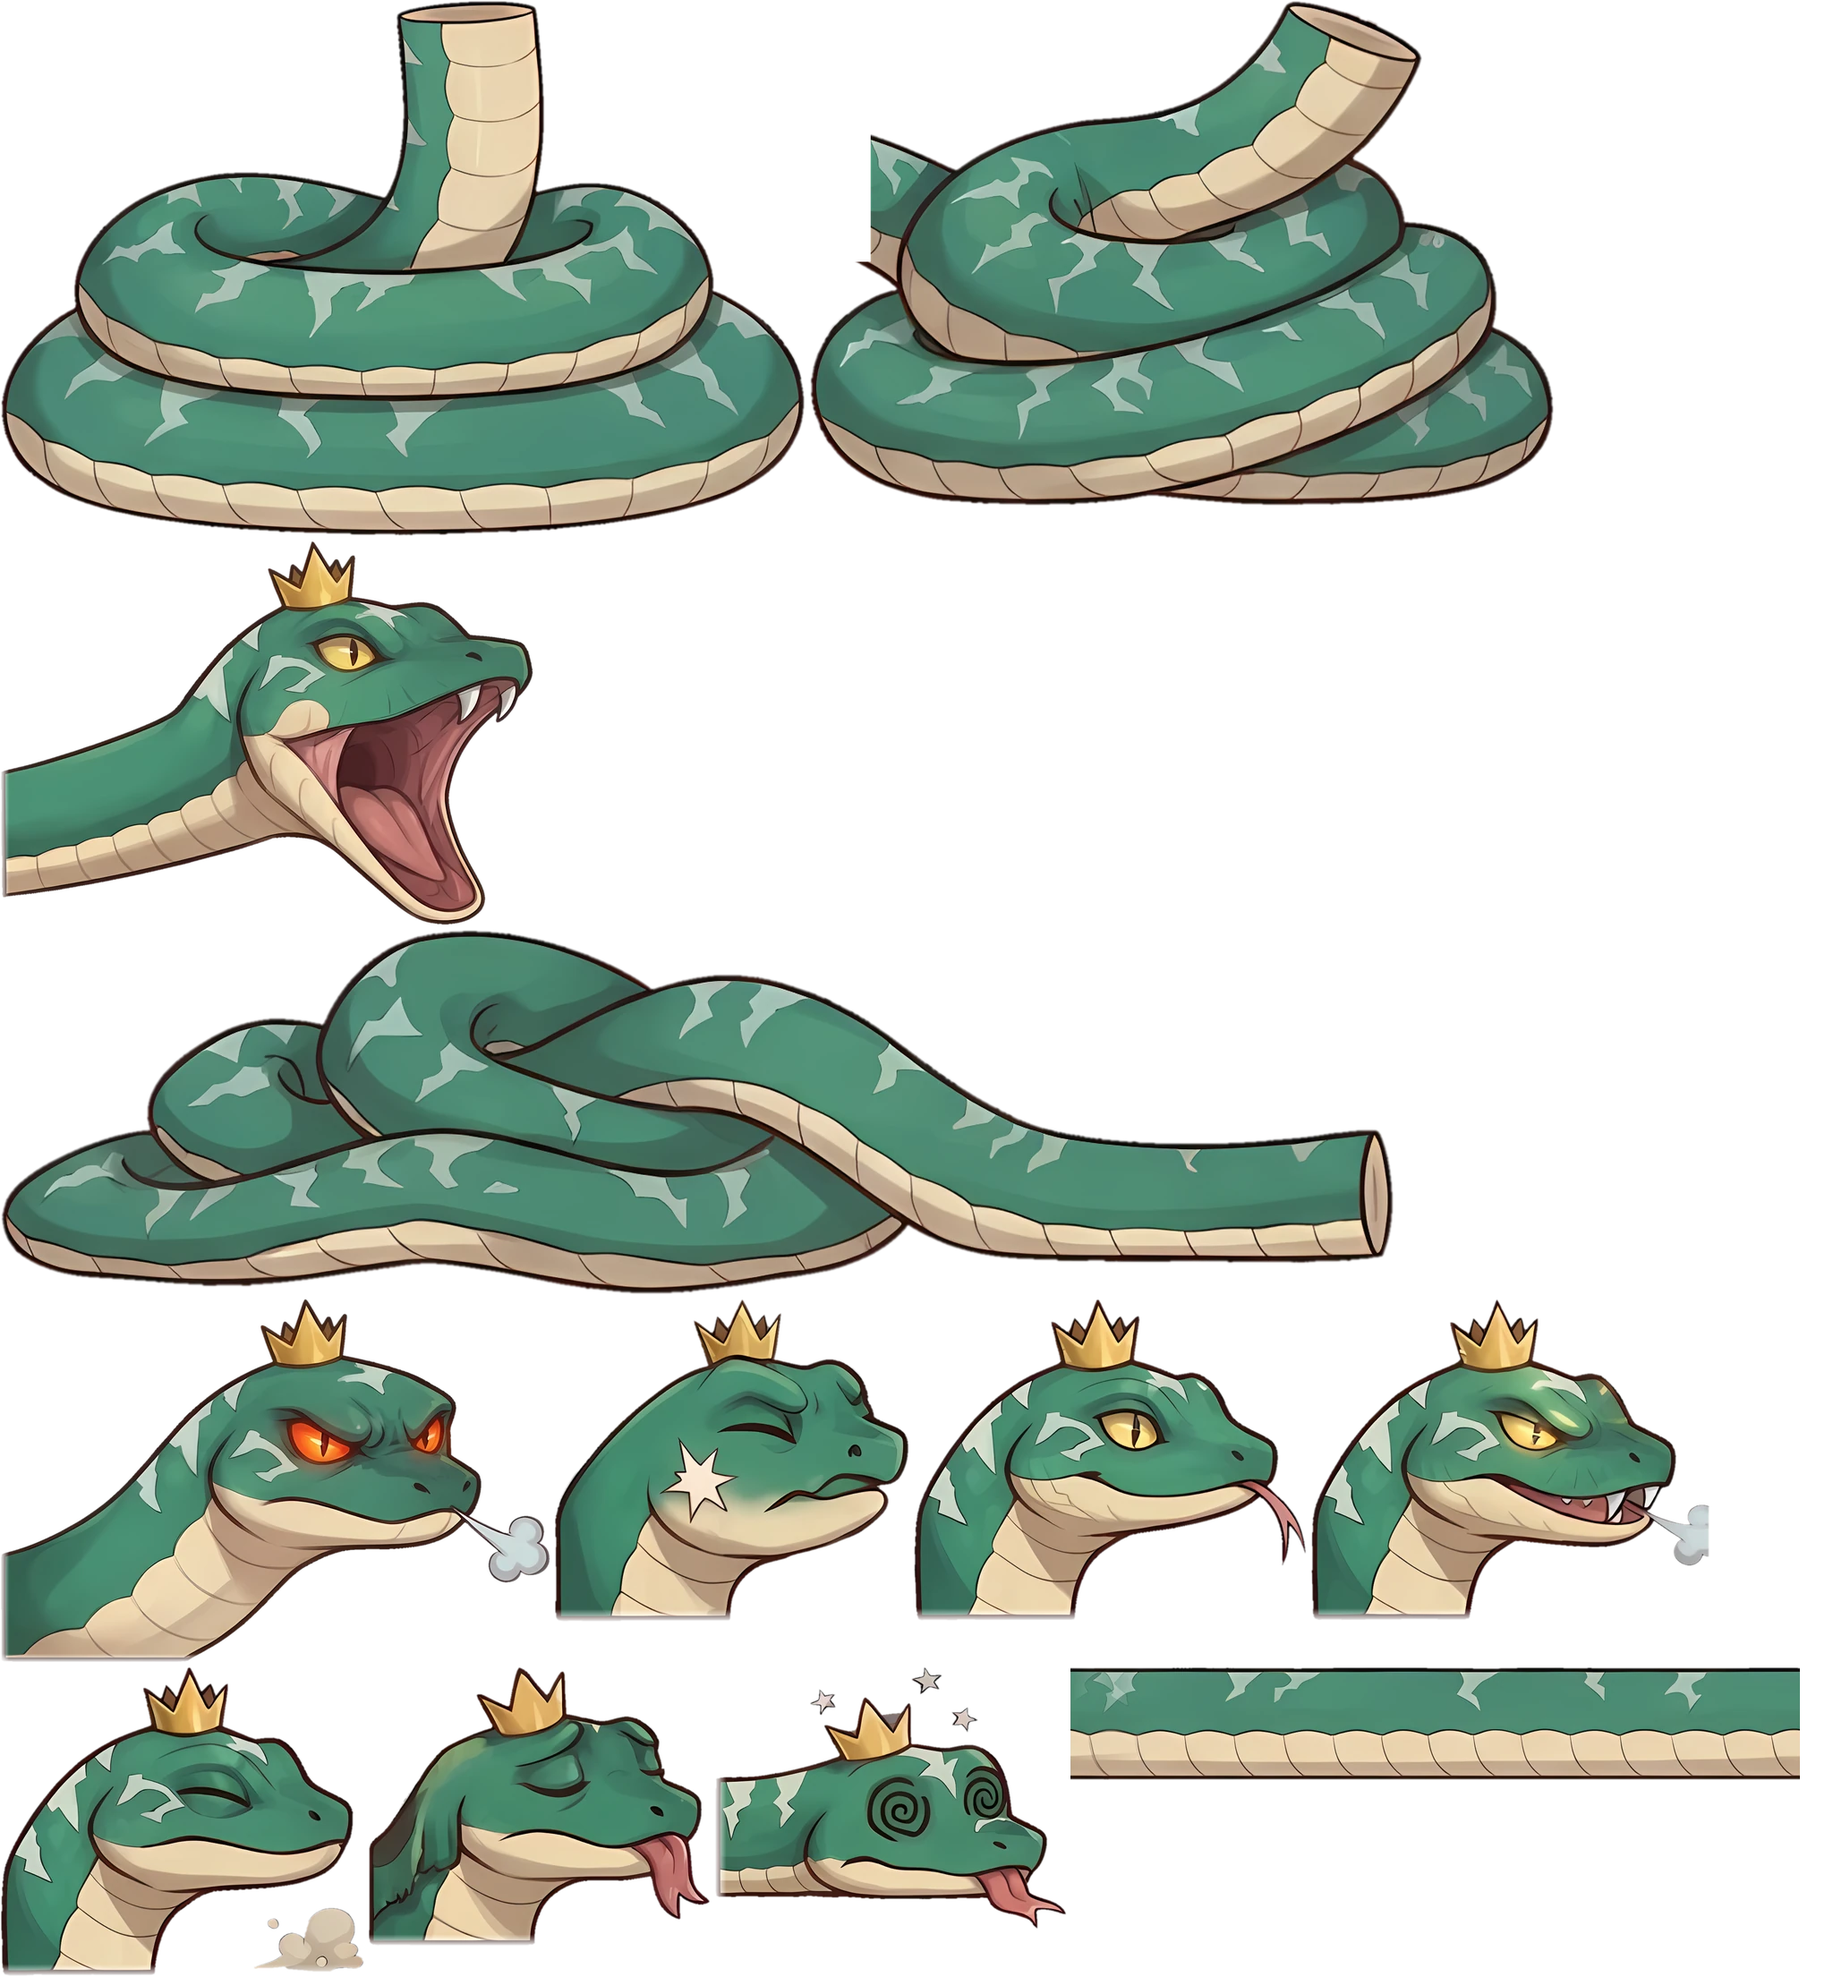
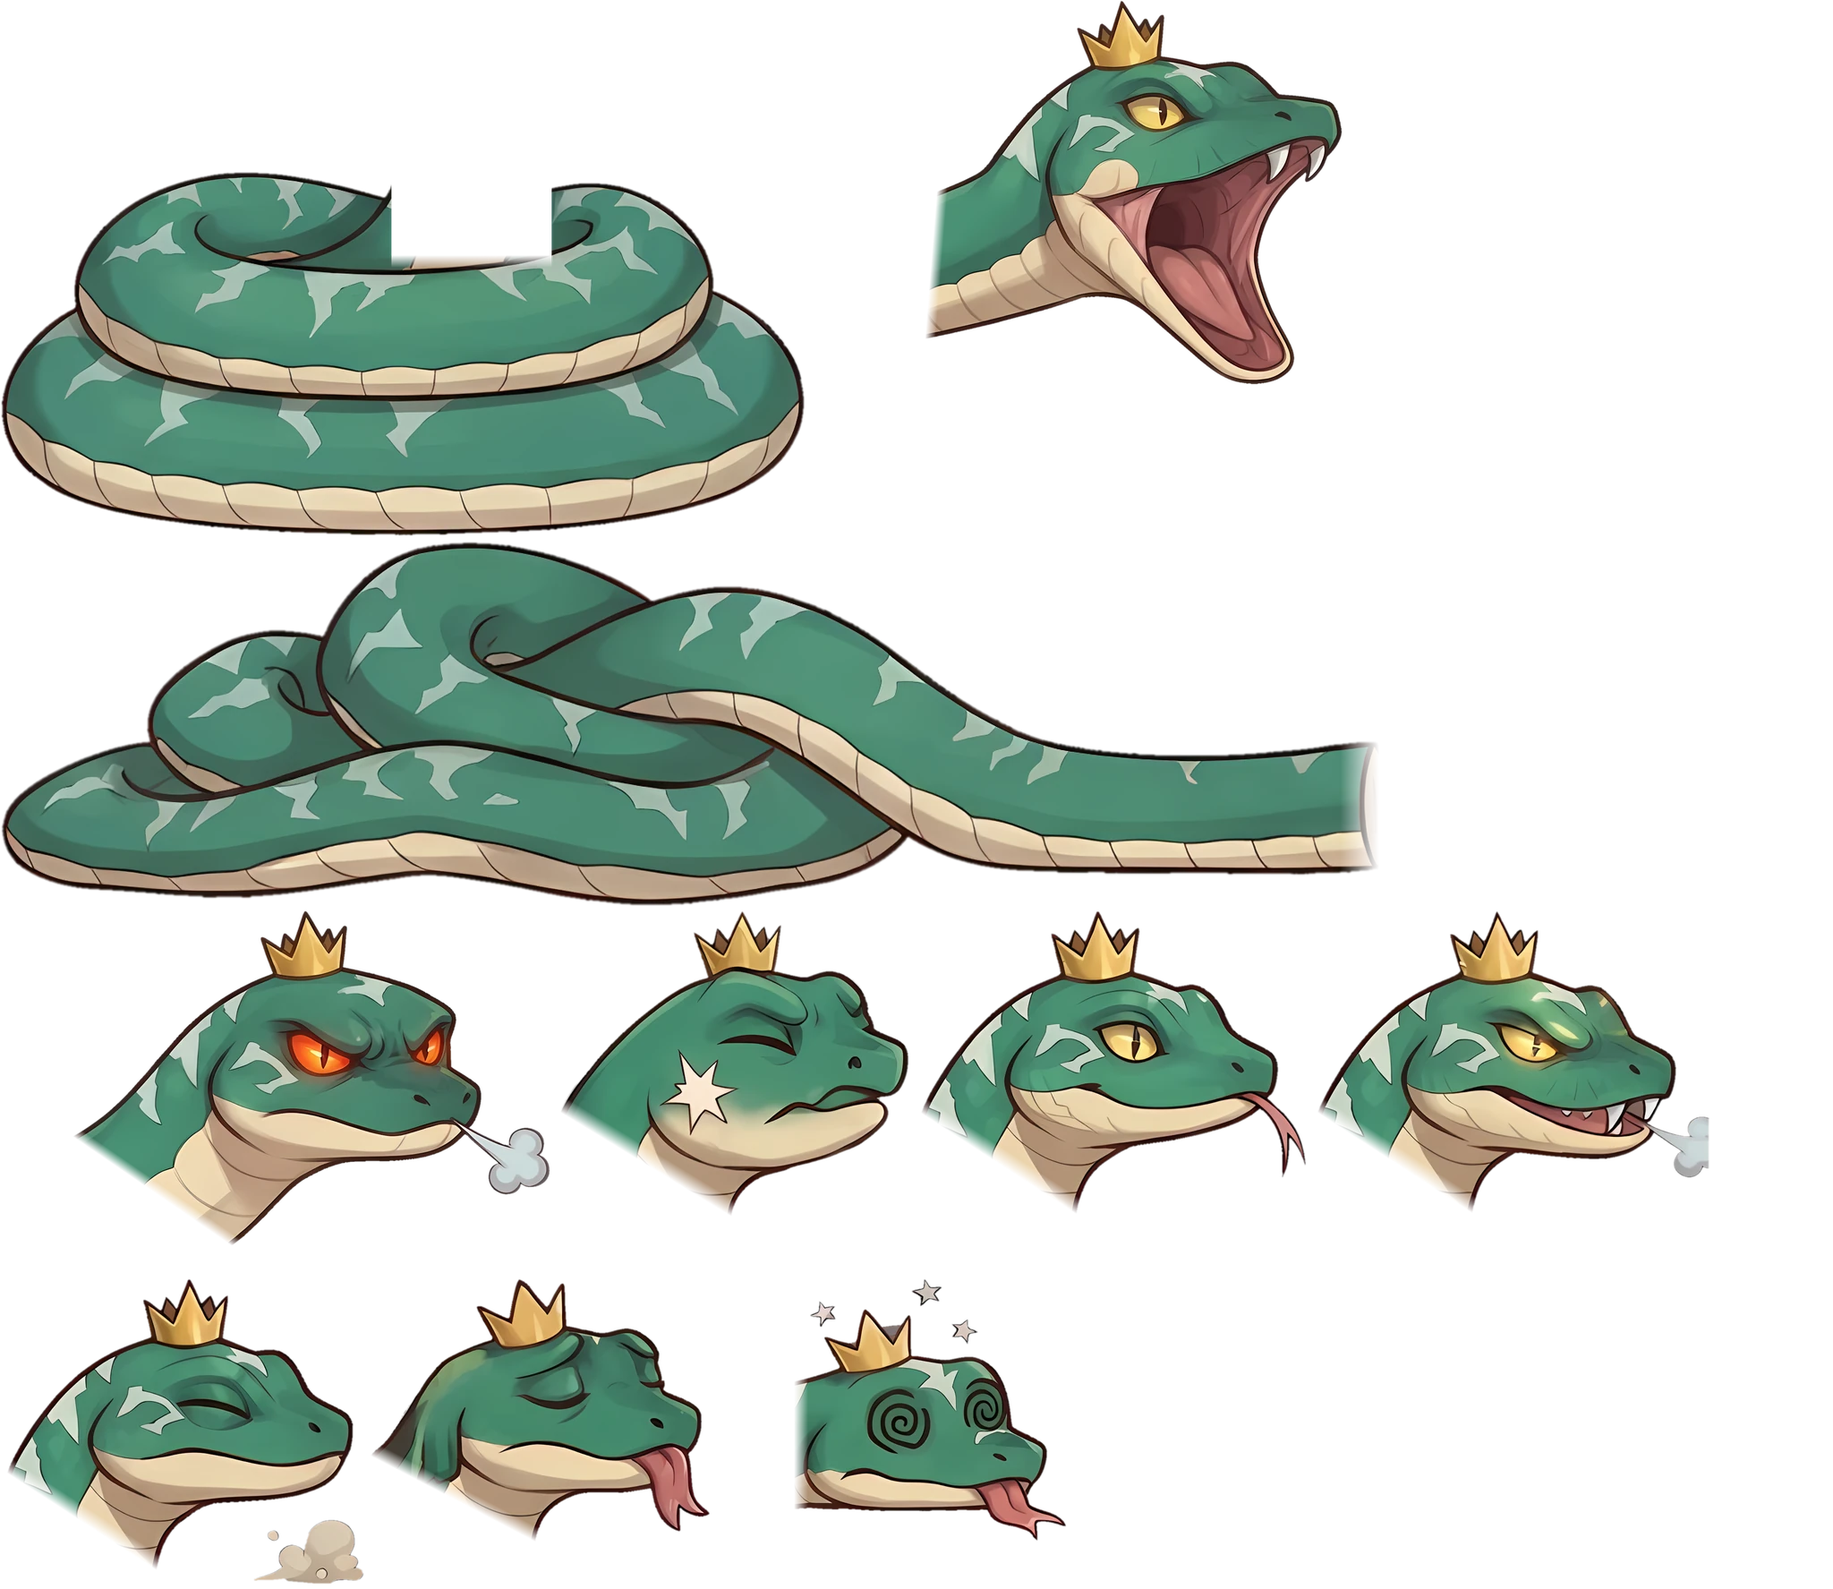
Venom Fang: no seams where the neck meets the coil and the head
Matt: "his neck where he's attached doesn't look very good. It's very noticeable." The heads and the coil each carried their
own painted piece of neck at their own angle, and the drawn neck met them in a notch. Now the painted necks are trimmed off
with a soft edge (pack2.py), the drawn neck rises out of the coil's ring (drawn under the pile, then over it once it is in the
open air) and runs under the back of each head. The tight coil is dropped (its stub and tail scrap could not be trimmed
cleanly); the lunge arches wider out of the ring, and the raised head sits a little lower, clear of the Menu button.

Claude-Session: https://claude.ai/code/session_01Mgg2VZTQ5NrixhRbjjHuvz

diff --git a/src/game/venomRig.ts b/src/game/venomRig.ts
@@ -10,7 +10,7 @@ import type { PaintedBoss } from './paintedBoss.ts';
 import { trackAtlas } from './atlasLoader.ts';
 import { VENOM2_FRAMES, VENOM2_PX, type VenomFrame } from './venom2AtlasData.ts';
 import { VENOM_FRAMES } from './venomAtlasData.ts';
-import { NECK, VF, coilCut, venomPose, type CoilPose, type HeadPose } from './venomFang.ts';
+import { NECK, VF, coilCut, coilTop, venomPose, type CoilPose, type HeadPose } from './venomFang.ts';
 
 const URL_ATLAS = new URL('../assets/enemies/venom2-atlas.webp', import.meta.url).href;
 const K = VF.S / VENOM2_PX;
@@ -73,12 +73,12 @@ function resample(pts: Array<[number, number]>, step: number): Array<[number, nu
  * The neck, painted along the spine (local points) in the body's own colours: so it bends cleanly at any angle (slices of the
  * painted tile fanned out into teeth on the outside of a bend). Belly to the right of the way it runs.
  */
-function neck(ctx: CanvasRenderingContext2D, raw: Array<[number, number]>) {
+function neck(ctx: CanvasRenderingContext2D, raw: Array<[number, number]>, cap: CanvasLineCap = 'round') {
   if (raw.length < 2) return;
   const pts = resample(raw, 4);
   const W = NECK;
   ctx.save();
-  ctx.lineCap = 'round';
+  ctx.lineCap = cap;
   ctx.lineJoin = 'round';
   stroke(ctx, pts, W + 4, COL.line);
   stroke(ctx, pts, W, COL.back);
@@ -152,10 +152,19 @@ function warnLine(ctx: CanvasRenderingContext2D, x0: number, x1: number, u: numb
   ctx.restore();
 }
 
-/** one pose drawn in the local frame (x forward, y up from the floor at 0) */
+/**
+ * One pose drawn in the local frame (x forward, y up from the floor at 0). The painted necks are trimmed off the coil and the heads,
+ * so the drawn neck goes under both: the part inside the pile is drawn before the coil (it rises out of the ring's hole), the rest
+ * after it (in the open air, where the two parts overlap without a seam), and the head is laid over the neck's end.
+ */
 function drawPose(ctx: CanvasRenderingContext2D, coil: CoilPose, head: HeadPose, spine: Array<[number, number]>, jx: number, jy: number, flash: boolean, squash: number) {
+  const pts = extendSpine(spine, 26);
+  const top = coilTop(coil) - 6;
+  let k = pts.findIndex(([, y]) => y < top);
+  if (k < 0) k = pts.length;
+  neck(ctx, pts.slice(0, Math.min(pts.length, k + 3)));
   piece(ctx, VENOM2_FRAMES['coil_' + coil], 0, 0);
-  neck(ctx, extendSpine(spine, 14));
+  if (k < pts.length - 1) neck(ctx, pts.slice(Math.max(0, k - 1)), 'butt');
   if (flash) ctx.filter = 'brightness(1.45)';
   piece(ctx, VENOM2_FRAMES['head_' + head], jx, jy, squash);
   ctx.filter = 'none';
@@ -165,12 +174,12 @@ function drawPose(ctx: CanvasRenderingContext2D, coil: CoilPose, head: HeadPose,
 const STILLS: Record<string, { coil: CoilPose; head: HeadPose }> = {
   idle: { coil: 'calm', head: 'calm' },
   n_idle: { coil: 'calm', head: 'calm' },
-  threat: { coil: 'tight', head: 'hiss' },
-  enrage: { coil: 'tight', head: 'angry' },
+  threat: { coil: 'calm', head: 'hiss' },
+  enrage: { coil: 'calm', head: 'angry' },
   enrageidle: { coil: 'calm', head: 'angry' },
-  n_roar: { coil: 'tight', head: 'snap' },
+  n_roar: { coil: 'calm', head: 'snap' },
   hurt: { coil: 'calm', head: 'hurt' },
-  deathroar: { coil: 'tight', head: 'snap' },
+  deathroar: { coil: 'calm', head: 'snap' },
   dead: { coil: 'slump', head: 'defeated' },
 };
 /** the story cards were laid out for the old painted frames: draw the new pose at the old size */
@@ -178,8 +187,8 @@ const STILL_K = (VENOM_FRAMES.idle.w * 0.95) / (VENOM2_FRAMES.coil_calm.w * K);
 
 function stillSpine(coil: CoilPose, head: HeadPose): { pts: Array<[number, number]>; jx: number; jy: number } {
   const c = coilCut(coil);
-  const jx = coil === 'slump' ? c.x + 40 : c.x + 22;
-  const jy = coil === 'slump' ? c.y - 30 : c.y - 46;
+  const jx = coil === 'slump' ? c.x + 40 : c.x + 10;
+  const jy = coil === 'slump' ? c.y - 30 : -262;
   const f = VENOM2_FRAMES['head_' + head];
   const dx = f.dx ?? 0.35;
   const dy = f.dy ?? -0.94;
@@ -220,7 +229,7 @@ export const venomRig: PaintedBoss & { rig: true } = {
     ctx.save();
     ctx.translate(b.x, feetY);
     ctx.scale(f, 1);
-    if (p.warn > 0) warnLine(ctx, coilCut('tight').x + 250, (p.warnTo - b.x) * f, p.warn, time);
+    if (p.warn > 0) warnLine(ctx, coilCut('calm').x + 250, (p.warnTo - b.x) * f, p.warn, time);
     const hit = b.hitFlashTimer > 0.02;
     const squash = hit && p.head === 'dazed' ? 0.86 : 1;
     drawPose(ctx, p.coil, p.head, spine, jx, jy, hit, squash);

diff --git a/src/game/venomFang.ts b/src/game/venomFang.ts
@@ -31,7 +31,7 @@ export const VF = {
   headHurt: 92,
 } as const;
 
-export type CoilPose = 'calm' | 'tight' | 'slump';
+export type CoilPose = 'calm' | 'slump';
 export type HeadPose = 'calm' | 'hiss' | 'strike' | 'snap' | 'dazed' | 'hurt' | 'angry' | 'defeated';
 
 export interface VenomPose {
@@ -66,10 +66,21 @@ export function flatHead(h: 'strike' | 'dazed'): { ahead: number; below: number 
   return { ahead: unit(f.w - f.ax), below: unit(f.h - f.ay) };
 }
 
-/** the raised head's join in the local frame (resting, phase 1 sways gently) */
+/** the height above the floor where the neck comes clear of a coil (local y) */
+export function coilTop(c: CoilPose): number {
+  const f = VENOM2_FRAMES['coil_' + c];
+  return unit((f.top ?? f.ay) - f.ay);
+}
+
+/** the raised head's join in the local frame (resting, it sways gently) */
 function raised(time: number, lift = 0): { x: number; y: number } {
   const c = coilCut('calm');
-  return { x: c.x + 34 + Math.sin(time * 1.3) * 6, y: c.y - 92 - lift + Math.sin(time * 1.9) * 5 };
+  return { x: c.x + 10 + Math.sin(time * 1.3) * 6, y: -262 - lift + Math.sin(time * 1.9) * 5 };
+}
+/** reared back for the lunge */
+function reared(): { x: number; y: number } {
+  const c = coilCut('calm');
+  return { x: c.x - 44, y: -288 };
 }
 
 /** where the head's front ends up after a lunge (world x), for a boss at bx facing f in an arena */
@@ -79,7 +90,7 @@ export function lungeReach(f: number, left: number, right: number): number {
 
 /** the point where the neck meets the floor during a lunge (local), and the first tip position */
 function floorFoot(): { x: number; y: number } {
-  const c = coilCut('tight');
+  const c = coilCut('calm');
   return { x: c.x + 250, y: -NECK / 2 };
 }
 
@@ -150,26 +161,24 @@ export function venomPose(b: BossEntity, floor: number, time: number): VenomPose
     jx = c.x + 40;
     jy = c.y - 30;
   } else if (lunging && st === 'tell') {
-    coil = 'tight';
     head = 'hiss';
-    const c = coilCut('tight');
     const u = Math.min(1, t / 0.5);
     const r = raised(time);
-    jx = lerp(r.x, c.x - 34, ease(u));
-    jy = lerp(r.y, c.y - 70, ease(u));
+    const rr = reared();
+    jx = lerp(r.x, rr.x, ease(u));
+    jy = lerp(r.y, rr.y, ease(u));
     shake = 2 + 3 * u;
     warn = Math.min(1, t / 0.35);
   } else if (lunging && st === 'act') {
-    coil = 'tight';
     head = 'strike';
     const u = Math.min(1, t / VF.act);
-    const c = coilCut('tight');
     if (u < VF.dive) {
       // the dive: from reared up to the floor in front of the coil
       const k = ease(u / VF.dive);
       const land = flatJoin(startTip, 'strike');
-      jx = lerp(c.x - 34, land.x, k);
-      jy = lerp(c.y - 70, land.y, k);
+      const rr = reared();
+      jx = lerp(rr.x, land.x, k);
+      jy = lerp(rr.y, land.y, k);
     } else {
       const k = easeOut((u - VF.dive) / (1 - VF.dive));
       const tip = lerp(startTip, reach, k);
@@ -179,7 +188,6 @@ export function venomPose(b: BossEntity, floor: number, time: number): VenomPose
       onFloor = true;
     }
   } else if (lunging && st === 'rec') {
-    coil = 'tight';
     head = 'dazed';
     const j = flatJoin(reach, 'dazed');
     jx = j.x;
@@ -189,7 +197,6 @@ export function venomPose(b: BossEntity, floor: number, time: number): VenomPose
     // dragging the head home along the floor, then lifting it
     const u = t / VF.retract;
     if (u < 0.7) {
-      coil = 'tight';
       head = 'dazed';
       const tip = lerp(reach, startTip, ease(u / 0.7));
       const j = flatJoin(tip, 'dazed');
@@ -229,7 +236,8 @@ export function venomPose(b: BossEntity, floor: number, time: number): VenomPose
   let local: Array<[number, number]>;
   if (onFloor) {
     // up out of the coil, down to the floor, and along it to the head
-    const bend = curve(c.x, c.y, c.dx, c.dy, foot.x, foot.y, 1, 0, 14);
+    // up out of the ring leaning forward, over the front of the coil and down: one wide arch, no hook at the hole
+    const bend = curve(c.x, c.y, 0.32, -0.95, foot.x, foot.y, 1, 0, 16);
     local = [...bend];
     const endX = jx;
     const steps = Math.max(1, Math.ceil(Math.abs(endX - foot.x) / 40));

diff --git a/src/game/venom2AtlasData.ts b/src/game/venom2AtlasData.ts
@@ -1,8 +1,9 @@
 /**
- * Generated by the Venom Fang pack script (scratchpad boss/pack.py) from Matt's Gemini sheets of 2026-10-24: eight heads, three coil
- * piles and a body tile, at 2 atlas px per world unit. Heads: (ax, ay) is where the neck tube joins the head and (dx, dy) the way the
- * tube runs into it. Coils: (ax, ay) is the middle of the pile on the ground line, (nx, ny) where the neck leaves it, (dx, dy) its way.
+ * Generated by the Venom Fang pack script (scratchpad boss/pack2.py) from Matt's Gemini sheets of 2026-10-24: eight heads and two coil
+ * piles, their painted necks trimmed off with a soft edge (the game draws the neck under them), at 2 atlas px per world unit. Heads: (ax, ay) is where the neck tube joins the head and (dx, dy) the way the
+ * tube runs into it. Coils: (ax, ay) is the middle of the pile on the ground line, (nx, ny) where the neck starts (hidden in it), (dx, dy) its way,
+ * and `top` the height (atlas y) above which the neck is clear of the pile.
  */
-export interface VenomFrame { x: number; y: number; w: number; h: number; ax: number; ay: number; nx?: number; ny?: number; dx?: number; dy?: number }
+export interface VenomFrame { x: number; y: number; w: number; h: number; ax: number; ay: number; nx?: number; ny?: number; dx?: number; dy?: number; top?: number }
 export const VENOM2_PX = 2;
-export const VENOM2_FRAMES: Record<string, VenomFrame> = {"head_calm": {"x": 1020, "y": 1451, "w": 440, "h": 361, "ax": 93.5, "ay": 348.8, "dx": 0.35, "dy": -0.94}, "head_hiss": {"x": 1464, "y": 1451, "w": 446, "h": 361, "ax": 93.5, "ay": 348.8, "dx": 0.35, "dy": -0.94}, "head_snap": {"x": 0, "y": 1862, "w": 407, "h": 347, "ax": 89.6, "ay": 334.1, "dx": 0.35, "dy": -0.94}, "head_hurt": {"x": 619, "y": 1451, "w": 397, "h": 362, "ax": 91.0, "ay": 348.8, "dx": 0.35, "dy": -0.94}, "head_defeated": {"x": 411, "y": 1862, "w": 383, "h": 313, "ax": 87.4, "ay": 299.0, "dx": 0.45, "dy": -0.89}, "head_dazed": {"x": 798, "y": 1862, "w": 394, "h": 294, "ax": 13.8, "ay": 193.2, "dx": 1.0, "dy": 0.0}, "head_strike": {"x": 0, "y": 604, "w": 596, "h": 430, "ax": 13.8, "ay": 330.8, "dx": 0.97, "dy": -0.24}, "head_angry": {"x": 0, "y": 1451, "w": 615, "h": 407, "ax": 20.7, "ay": 341.1, "dx": 0.85, "dy": -0.53}, "coil_calm": {"x": 0, "y": 0, "w": 900, "h": 600, "ax": 450.0, "ay": 600, "nx": 523.7, "ny": 21.1, "dx": 0.0, "dy": -1.0}, "coil_tight": {"x": 904, "y": 0, "w": 833, "h": 566, "ax": 416.5, "ay": 566, "nx": 575.5, "ny": 26.9, "dx": 0.5, "dy": -0.87}, "coil_slump": {"x": 0, "y": 1038, "w": 1558, "h": 409, "ax": 520.0, "ay": 409, "nx": 1534.0, "ny": 264.3, "dx": 1.0, "dy": 0.0}, "tile": {"x": 1196, "y": 1862, "w": 815, "h": 128, "ax": 0, "ay": 64.0}};
+export const VENOM2_FRAMES: Record<string, VenomFrame> = {"head_calm": {"x": 1020, "y": 1017, "w": 440, "h": 361, "ax": 119.6, "ay": 244.7, "dx": 0.545, "dy": -0.838}, "head_hiss": {"x": 1464, "y": 1017, "w": 446, "h": 361, "ax": 118.3, "ay": 243.9, "dx": 0.545, "dy": -0.838}, "head_snap": {"x": 0, "y": 1428, "w": 407, "h": 347, "ax": 114.7, "ay": 233.4, "dx": 0.545, "dy": -0.838}, "head_hurt": {"x": 619, "y": 1017, "w": 397, "h": 362, "ax": 125.1, "ay": 245.3, "dx": 0.521, "dy": -0.853}, "head_defeated": {"x": 411, "y": 1428, "w": 383, "h": 313, "ax": 115.8, "ay": 206.9, "dx": 0.463, "dy": -0.886}, "head_dazed": {"x": 798, "y": 1428, "w": 394, "h": 294, "ax": 133.4, "ay": 185.8, "dx": 1.0, "dy": -0.0}, "head_strike": {"x": 904, "y": 0, "w": 596, "h": 430, "ax": 179.5, "ay": 298.9, "dx": 0.997, "dy": 0.08}, "head_angry": {"x": 0, "y": 1017, "w": 615, "h": 407, "ax": 195.7, "ay": 278.1, "dx": 0.566, "dy": -0.824}, "coil_calm": {"x": 0, "y": 0, "w": 900, "h": 600, "ax": 450.0, "ay": 600, "nx": 526.5, "ny": 330.0, "dx": 0.0, "dy": -1.0, "top": 175.5}, "coil_slump": {"x": 0, "y": 604, "w": 1558, "h": 409, "ax": 520.0, "ay": 409, "nx": 1480.3, "ny": 264.3, "dx": 1.0, "dy": 0.0, "top": 0.0}};
